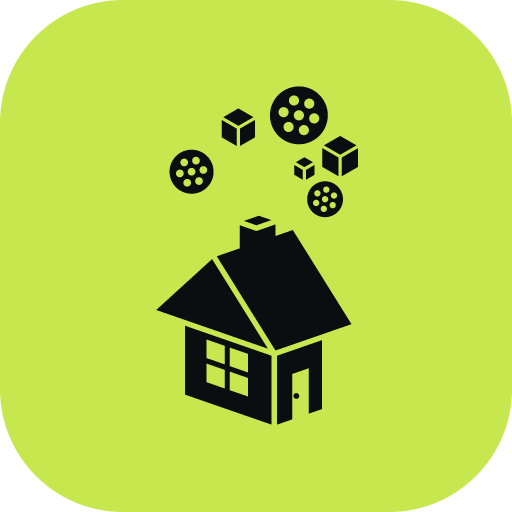
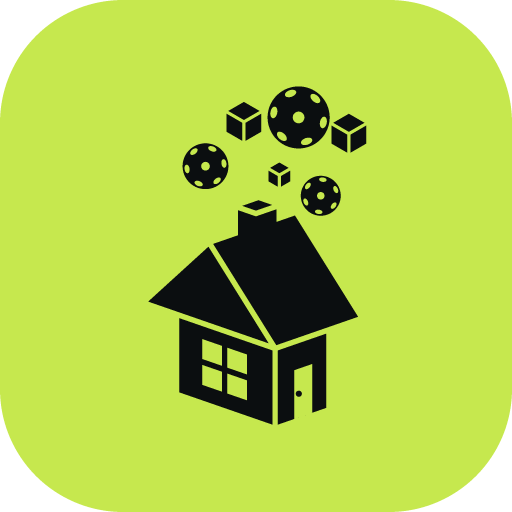
fix(brand): make the balls read as spheres, lower the window, close the gap
The holes were equal circles scattered across a disc, which is why the balls
looked flat. They now sit on a *sphere* and are projected: a round hole seen
off-axis keeps its full width across the line of sight and foreshortens along
it, so the outer holes are ellipses that squash harder toward the rim. That
projection is the entire difference between a ball and a flower.

With the trails gone the objects had drifted away from the chimney and left a
hole in the middle of the mark, so the group is pulled in and spread so no two
overlap. The window sits lower on the wall. Nothing else about the house
changed.

Changed region(s): [[0.2812, 0.1562, 0.7188, 0.8438]]

diff --git a/src/components/brandArt.ts b/src/components/brandArt.ts
@@ -8,100 +8,100 @@ export const BRAND_SEAM_WIDTH = 0.85
 
 /** Filled in ink. Balls carry their holes, so these need fill-rule="evenodd". */
 export const BRAND_INK: string[] = [
-  "M20.9 53.66 L34.86 58.5 L42.31 55.92 L42.31 43.02 L34.86 45.6 L20.9 40.76 Z",
-  "M16.05 40.76 L25.46 32.19 L37.75 27.94 L47.15 43.02 L34.86 47.28 Z",
-  "M29.46 26.74 L32.44 25.71 L35.05 26.61 L35.05 35.86 L32.07 36.89 L29.46 35.99 Z",
-  "M29.24 8.94 L31.85 10.45 L31.85 13.46 L29.24 14.96 L26.64 13.46 L26.64 10.45 Z",
-  "M45.15 13.24 L47.95 14.85 L47.95 18.08 L45.15 19.69 L42.36 18.08 L42.36 14.85 Z",
-  "M39.56 16.57 L41.15 17.49 L41.15 19.31 L39.56 20.23 L37.98 19.31 L37.98 17.49 Z",
-  "M34.18 10.02 a4.52 4.52 0 1 0 9.04 0 a4.52 4.52 0 1 0 -9.04 0 Z M37.91 10.02 a0.79 0.79 0 1 0 1.58 0 a0.79 0.79 0 1 0 -1.58 0 Z M40.3 10.5 a0.79 0.79 0 1 0 1.58 0 a0.79 0.79 0 1 0 -1.58 0 Z M38.69 12.33 a0.79 0.79 0 1 0 1.58 0 a0.79 0.79 0 1 0 -1.58 0 Z M36.3 11.84 a0.79 0.79 0 1 0 1.58 0 a0.79 0.79 0 1 0 -1.58 0 Z M35.52 9.53 a0.79 0.79 0 1 0 1.58 0 a0.79 0.79 0 1 0 -1.58 0 Z M37.14 7.7 a0.79 0.79 0 1 0 1.58 0 a0.79 0.79 0 1 0 -1.58 0 Z M39.53 8.19 a0.79 0.79 0 1 0 1.58 0 a0.79 0.79 0 1 0 -1.58 0 Z",
-  "M18.49 18.83 a3.44 3.44 0 1 0 6.88 0 a3.44 3.44 0 1 0 -6.88 0 Z M21.33 18.83 a0.6 0.6 0 1 0 1.2 0 a0.6 0.6 0 1 0 -1.2 0 Z M22.49 20.29 a0.6 0.6 0 1 0 1.2 0 a0.6 0.6 0 1 0 -1.2 0 Z M20.65 20.56 a0.6 0.6 0 1 0 1.2 0 a0.6 0.6 0 1 0 -1.2 0 Z M19.5 19.1 a0.6 0.6 0 1 0 1.2 0 a0.6 0.6 0 1 0 -1.2 0 Z M20.18 17.38 a0.6 0.6 0 1 0 1.2 0 a0.6 0.6 0 1 0 -1.2 0 Z M22.02 17.1 a0.6 0.6 0 1 0 1.2 0 a0.6 0.6 0 1 0 -1.2 0 Z M23.17 18.56 a0.6 0.6 0 1 0 1.2 0 a0.6 0.6 0 1 0 -1.2 0 Z",
-  "M39.99 23.13 a2.8 2.8 0 1 0 5.6 0 a2.8 2.8 0 1 0 -5.6 0 Z M42.3 23.13 a0.49 0.49 0 1 0 0.98 0 a0.49 0.49 0 1 0 -0.98 0 Z M42.1 24.63 a0.49 0.49 0 1 0 0.98 0 a0.49 0.49 0 1 0 -0.98 0 Z M40.9 23.71 a0.49 0.49 0 1 0 0.98 0 a0.49 0.49 0 1 0 -0.98 0 Z M41.1 22.21 a0.49 0.49 0 1 0 0.98 0 a0.49 0.49 0 1 0 -0.98 0 Z M42.49 21.63 a0.49 0.49 0 1 0 0.98 0 a0.49 0.49 0 1 0 -0.98 0 Z M43.69 22.55 a0.49 0.49 0 1 0 0.98 0 a0.49 0.49 0 1 0 -0.98 0 Z M43.5 24.05 a0.49 0.49 0 1 0 0.98 0 a0.49 0.49 0 1 0 -0.98 0 Z"
+  "M19.99 53.3 L34.99 58.5 L42.99 55.73 L42.99 41.87 L34.99 44.64 L19.99 39.45 Z",
+  "M14.79 39.45 L24.89 30.25 L38.09 25.67 L48.19 41.87 L34.99 46.45 Z",
+  "M29.19 24.39 L32.39 23.28 L35.19 24.25 L35.19 34.18 L31.99 35.29 L29.19 34.32 Z",
+  "M30.11 7.92 L32.81 9.48 L32.81 12.6 L30.11 14.16 L27.41 12.6 L27.41 9.48 Z",
+  "M46.51 9.77 L49.21 11.33 L49.21 14.45 L46.51 16.01 L43.81 14.45 L43.81 11.33 Z",
+  "M35.65 17.39 L37.35 18.37 L37.35 20.34 L35.65 21.32 L33.95 20.34 L33.95 18.37 Z",
+  "M33.81 10.35 a4.85 4.85 0 1 0 9.7 0 a4.85 4.85 0 1 0 -9.7 0 Z M39.58 10.35 L39.53 10.63 L39.4 10.89 L39.2 11.09 L38.94 11.23 L38.66 11.27 L38.37 11.23 L38.12 11.09 L37.91 10.89 L37.78 10.63 L37.74 10.35 L37.78 10.06 L37.91 9.81 L38.12 9.6 L38.37 9.47 L38.66 9.43 L38.94 9.47 L39.2 9.6 L39.4 9.81 L39.53 10.06 Z M43.05 11.24 L42.97 11.51 L42.84 11.75 L42.68 11.93 L42.51 12.02 L42.34 12.04 L42.19 11.96 L42.07 11.8 L41.99 11.58 L41.97 11.31 L42 11.03 L42.08 10.75 L42.21 10.52 L42.36 10.34 L42.53 10.24 L42.71 10.23 L42.86 10.31 L42.98 10.47 L43.06 10.69 L43.08 10.96 Z M40.08 14.6 L39.8 14.66 L39.54 14.67 L39.3 14.63 L39.13 14.53 L39.04 14.38 L39.03 14.21 L39.1 14.03 L39.26 13.85 L39.48 13.7 L39.74 13.58 L40.02 13.52 L40.29 13.51 L40.52 13.55 L40.69 13.65 L40.78 13.8 L40.79 13.97 L40.72 14.15 L40.56 14.33 L40.34 14.48 Z M35.69 13.71 L35.49 13.5 L35.35 13.27 L35.28 13.05 L35.28 12.85 L35.35 12.7 L35.5 12.6 L35.69 12.58 L35.93 12.62 L36.17 12.74 L36.4 12.9 L36.6 13.11 L36.74 13.34 L36.81 13.56 L36.81 13.76 L36.74 13.92 L36.59 14.01 L36.4 14.04 L36.16 13.99 L35.92 13.88 Z M34.27 9.46 L34.35 9.19 L34.47 8.95 L34.63 8.77 L34.8 8.67 L34.97 8.66 L35.13 8.74 L35.25 8.9 L35.32 9.12 L35.35 9.39 L35.32 9.67 L35.23 9.95 L35.11 10.18 L34.95 10.36 L34.78 10.46 L34.61 10.47 L34.45 10.39 L34.33 10.23 L34.26 10.01 L34.23 9.74 Z M37.23 6.1 L37.51 6.04 L37.78 6.03 L38.01 6.07 L38.18 6.17 L38.28 6.32 L38.29 6.49 L38.21 6.67 L38.05 6.85 L37.83 7 L37.57 7.12 L37.29 7.18 L37.03 7.19 L36.8 7.15 L36.62 7.05 L36.53 6.9 L36.52 6.73 L36.6 6.55 L36.75 6.37 L36.97 6.22 Z M41.62 6.99 L41.82 7.2 L41.96 7.43 L42.04 7.65 L42.03 7.85 L41.96 8 L41.82 8.1 L41.62 8.12 L41.39 8.08 L41.14 7.96 L40.91 7.79 L40.72 7.59 L40.58 7.36 L40.5 7.14 L40.5 6.94 L40.58 6.78 L40.72 6.69 L40.92 6.66 L41.15 6.71 L41.39 6.82 Z",
+  "M20.53 17.97 a3.58 3.58 0 1 0 7.16 0 a3.58 3.58 0 1 0 -7.16 0 Z M24.79 17.97 L24.75 18.18 L24.66 18.37 L24.51 18.52 L24.32 18.62 L24.11 18.65 L23.9 18.62 L23.71 18.52 L23.56 18.37 L23.46 18.18 L23.43 17.97 L23.46 17.76 L23.56 17.57 L23.71 17.42 L23.9 17.32 L24.11 17.29 L24.32 17.32 L24.51 17.42 L24.66 17.57 L24.75 17.76 Z M26.16 20.56 L25.99 20.68 L25.8 20.75 L25.63 20.77 L25.49 20.75 L25.39 20.67 L25.34 20.56 L25.34 20.41 L25.41 20.25 L25.52 20.09 L25.67 19.94 L25.85 19.83 L26.03 19.75 L26.2 19.73 L26.35 19.75 L26.45 19.83 L26.5 19.94 L26.49 20.09 L26.43 20.25 L26.32 20.41 Z M22.89 21.05 L22.7 20.95 L22.55 20.83 L22.44 20.69 L22.39 20.55 L22.41 20.43 L22.48 20.33 L22.61 20.26 L22.78 20.23 L22.98 20.25 L23.18 20.31 L23.37 20.41 L23.53 20.53 L23.64 20.66 L23.68 20.8 L23.67 20.93 L23.59 21.03 L23.46 21.1 L23.29 21.12 L23.1 21.11 Z M20.84 18.46 L20.83 18.24 L20.85 18.05 L20.92 17.89 L21.01 17.78 L21.13 17.72 L21.25 17.74 L21.38 17.82 L21.49 17.95 L21.57 18.13 L21.62 18.34 L21.63 18.55 L21.6 18.75 L21.54 18.91 L21.44 19.02 L21.33 19.07 L21.2 19.05 L21.08 18.98 L20.97 18.84 L20.89 18.66 Z M22.05 15.38 L22.23 15.26 L22.41 15.19 L22.58 15.17 L22.73 15.19 L22.83 15.27 L22.88 15.38 L22.87 15.53 L22.81 15.69 L22.7 15.85 L22.54 16 L22.37 16.11 L22.18 16.19 L22.01 16.21 L21.87 16.19 L21.77 16.11 L21.72 16 L21.72 15.85 L21.79 15.69 L21.9 15.53 Z M25.32 14.89 L25.51 14.99 L25.67 15.11 L25.78 15.25 L25.82 15.39 L25.81 15.51 L25.73 15.61 L25.6 15.68 L25.43 15.71 L25.24 15.69 L25.03 15.63 L24.84 15.54 L24.69 15.41 L24.58 15.28 L24.53 15.14 L24.55 15.01 L24.62 14.91 L24.75 14.84 L24.92 14.82 L25.12 14.84 Z M27.38 17.49 L27.39 17.7 L27.36 17.89 L27.3 18.05 L27.2 18.17 L27.09 18.22 L26.96 18.2 L26.84 18.12 L26.73 17.99 L26.65 17.81 L26.6 17.6 L26.59 17.39 L26.61 17.19 L26.68 17.03 L26.77 16.92 L26.89 16.87 L27.01 16.89 L27.14 16.96 L27.25 17.1 L27.33 17.28 Z",
+  "M39 22.59 a3.12 3.12 0 1 0 6.24 0 a3.12 3.12 0 1 0 -6.24 0 Z M42.71 22.59 L42.68 22.77 L42.6 22.94 L42.47 23.07 L42.3 23.15 L42.12 23.18 L41.94 23.15 L41.77 23.07 L41.64 22.94 L41.56 22.77 L41.53 22.59 L41.56 22.41 L41.64 22.24 L41.77 22.11 L41.94 22.03 L42.12 22 L42.3 22.03 L42.47 22.11 L42.6 22.24 L42.68 22.41 Z M41.75 25.45 L41.57 25.4 L41.41 25.34 L41.29 25.24 L41.22 25.14 L41.21 25.03 L41.25 24.93 L41.34 24.84 L41.48 24.78 L41.65 24.75 L41.84 24.76 L42.02 24.8 L42.18 24.87 L42.3 24.96 L42.37 25.07 L42.38 25.18 L42.34 25.28 L42.24 25.37 L42.1 25.42 L41.93 25.45 Z M39.46 23.7 L39.41 23.52 L39.39 23.35 L39.41 23.2 L39.46 23.08 L39.55 23.02 L39.66 23 L39.78 23.04 L39.9 23.13 L40.01 23.27 L40.1 23.43 L40.15 23.61 L40.17 23.78 L40.15 23.93 L40.09 24.04 L40.01 24.11 L39.9 24.12 L39.78 24.08 L39.66 23.99 L39.55 23.86 Z M39.83 20.84 L39.96 20.7 L40.1 20.6 L40.24 20.54 L40.36 20.54 L40.47 20.58 L40.53 20.67 L40.56 20.79 L40.54 20.94 L40.48 21.1 L40.38 21.26 L40.26 21.39 L40.12 21.49 L39.98 21.55 L39.85 21.56 L39.75 21.52 L39.68 21.43 L39.65 21.31 L39.67 21.16 L39.73 20.99 Z M42.49 19.73 L42.67 19.77 L42.83 19.84 L42.95 19.93 L43.02 20.04 L43.03 20.15 L42.99 20.25 L42.9 20.34 L42.76 20.4 L42.59 20.42 L42.4 20.42 L42.22 20.38 L42.07 20.31 L41.95 20.21 L41.87 20.11 L41.86 20 L41.9 19.9 L42 19.81 L42.14 19.75 L42.31 19.73 Z M44.78 21.48 L44.83 21.66 L44.85 21.83 L44.83 21.98 L44.78 22.09 L44.69 22.16 L44.58 22.18 L44.46 22.13 L44.34 22.04 L44.23 21.91 L44.14 21.75 L44.09 21.57 L44.07 21.4 L44.09 21.25 L44.15 21.14 L44.23 21.07 L44.34 21.05 L44.46 21.09 L44.59 21.19 L44.69 21.32 Z M44.41 24.34 L44.28 24.47 L44.14 24.57 L44 24.63 L43.88 24.64 L43.78 24.6 L43.71 24.51 L43.68 24.39 L43.7 24.24 L43.76 24.08 L43.86 23.92 L43.99 23.78 L44.13 23.68 L44.27 23.63 L44.39 23.62 L44.49 23.66 L44.56 23.75 L44.59 23.87 L44.57 24.02 L44.51 24.18 Z"
 ]
 
 /** Filled in the tile colour, on top: the window panes and the door. */
 export const BRAND_CUTS: string[] = [
-  "M30.76 50.2 L27.88 49.2 L27.88 46.3 L30.76 47.3 Z",
-  "M27.13 48.94 L24.25 47.94 L24.25 45.04 L27.13 46.04 Z",
-  "M30.76 53.96 L27.88 52.96 L27.88 50.06 L30.76 51.06 Z",
-  "M27.13 52.71 L24.25 51.71 L24.25 48.8 L27.13 49.8 Z",
-  "M37.65 57.53 L40.26 56.63 L40.26 49.53 L37.65 50.44 Z"
+  "M30.59 50.51 L27.49 49.44 L27.49 46.32 L30.59 47.39 Z",
+  "M26.69 49.16 L23.59 48.09 L23.59 44.97 L26.69 46.04 Z",
+  "M30.59 54.55 L27.49 53.48 L27.49 50.36 L30.59 51.43 Z",
+  "M26.69 53.2 L23.59 52.13 L23.59 49.01 L26.69 50.08 Z",
+  "M37.99 57.46 L40.79 56.49 L40.79 48.87 L37.99 49.84 Z"
 ]
 
 /** Stroked in the tile colour: the seams where one face meets another. */
 export const BRAND_SEAMS: { d: string; width: number }[] = [
   {
-    "d": "M16.05 40.76 L34.86 47.28 L47.15 43.02",
+    "d": "M14.79 39.45 L34.99 46.45 L48.19 41.87",
     "width": 0.85
   },
   {
-    "d": "M34.86 47.28 L25.46 32.19",
+    "d": "M34.99 46.45 L24.89 30.25",
     "width": 0.85
   },
   {
-    "d": "M34.86 58.5 L34.86 47.28",
+    "d": "M34.99 58.5 L34.99 46.45",
     "width": 0.85
   },
   {
-    "d": "M32.07 27.65 L35.05 26.61",
+    "d": "M31.99 25.36 L35.19 24.25",
     "width": 0.85
   },
   {
-    "d": "M32.07 27.65 L29.46 26.74",
+    "d": "M31.99 25.36 L29.19 24.39",
     "width": 0.85
   },
   {
-    "d": "M29.24 11.95 L26.64 10.45",
+    "d": "M30.11 11.04 L27.41 9.48",
     "width": 0.5
   },
   {
-    "d": "M29.24 11.95 L31.85 10.45",
+    "d": "M30.11 11.04 L32.81 9.48",
     "width": 0.5
   },
   {
-    "d": "M29.24 11.95 L29.24 14.96",
+    "d": "M30.11 11.04 L30.11 14.16",
     "width": 0.5
   },
   {
-    "d": "M45.15 16.47 L42.36 14.85",
+    "d": "M46.51 12.89 L43.81 11.33",
     "width": 0.5
   },
   {
-    "d": "M45.15 16.47 L47.95 14.85",
+    "d": "M46.51 12.89 L49.21 11.33",
     "width": 0.5
   },
   {
-    "d": "M45.15 16.47 L45.15 19.69",
+    "d": "M46.51 12.89 L46.51 16.01",
     "width": 0.5
   },
   {
-    "d": "M39.56 18.4 L37.98 17.49",
+    "d": "M35.65 19.36 L33.95 18.37",
     "width": 0.5
   },
   {
-    "d": "M39.56 18.4 L41.15 17.49",
+    "d": "M35.65 19.36 L37.35 18.37",
     "width": 0.5
   },
   {
-    "d": "M39.56 18.4 L39.56 20.23",
+    "d": "M35.65 19.36 L35.65 21.32",
     "width": 0.5
   }
 ]
 
 /** Back in ink, over the cuts: the door handle. */
 export const BRAND_DOTS: string[] = [
-  "M37.85 53.87 a0.45 0.45 0 1 0 0.9 0 a0.45 0.45 0 1 0 -0.9 0 Z"
+  "M38.21 53.52 a0.48 0.48 0 1 0 0.96 0 a0.48 0.48 0 1 0 -0.96 0 Z"
 ]
 
 /** One flat silhouette, for anywhere the mark must survive as a single shape. */
 export const BRAND_SOLID: string[] = [
-  "M20.9 53.66 L34.86 58.5 L42.31 55.92 L42.31 43.02 L34.86 45.6 L20.9 40.76 Z",
-  "M16.05 40.76 L25.46 32.19 L37.75 27.94 L47.15 43.02 L34.86 47.28 Z",
-  "M29.46 26.74 L32.44 25.71 L35.05 26.61 L35.05 35.86 L32.07 36.89 L29.46 35.99 Z",
-  "M29.24 8.94 L31.85 10.45 L31.85 13.46 L29.24 14.96 L26.64 13.46 L26.64 10.45 Z",
-  "M45.15 13.24 L47.95 14.85 L47.95 18.08 L45.15 19.69 L42.36 18.08 L42.36 14.85 Z",
-  "M39.56 16.57 L41.15 17.49 L41.15 19.31 L39.56 20.23 L37.98 19.31 L37.98 17.49 Z",
-  "M43.22 10.02 L43.16 10.72 L43 11.41 L42.73 12.06 L42.36 12.67 L41.9 13.21 L41.36 13.67 L40.75 14.04 L40.1 14.31 L39.41 14.47 L38.7 14.53 L38 14.47 L37.31 14.31 L36.65 14.04 L36.05 13.67 L35.51 13.21 L35.05 12.67 L34.68 12.06 L34.41 11.41 L34.24 10.72 L34.19 10.02 L34.24 9.31 L34.41 8.62 L34.68 7.97 L35.05 7.36 L35.51 6.82 L36.05 6.36 L36.65 5.99 L37.31 5.72 L38 5.56 L38.7 5.5 L39.41 5.56 L40.1 5.72 L40.75 5.99 L41.36 6.36 L41.9 6.82 L42.36 7.36 L42.73 7.97 L43 8.62 L43.16 9.31 Z",
-  "M25.37 18.83 L25.33 19.37 L25.2 19.89 L25 20.39 L24.72 20.85 L24.37 21.26 L23.95 21.61 L23.49 21.9 L23 22.1 L22.47 22.23 L21.93 22.27 L21.39 22.23 L20.87 22.1 L20.37 21.9 L19.91 21.61 L19.5 21.26 L19.15 20.85 L18.87 20.39 L18.66 19.89 L18.53 19.37 L18.49 18.83 L18.53 18.29 L18.66 17.77 L18.87 17.27 L19.15 16.81 L19.5 16.4 L19.91 16.05 L20.37 15.77 L20.87 15.56 L21.39 15.43 L21.93 15.39 L22.47 15.43 L23 15.56 L23.49 15.77 L23.95 16.05 L24.37 16.4 L24.72 16.81 L25 17.27 L25.2 17.77 L25.33 18.29 Z",
-  "M45.58 23.13 L45.55 23.57 L45.45 23.99 L45.28 24.4 L45.05 24.77 L44.76 25.11 L44.43 25.39 L44.06 25.62 L43.65 25.79 L43.23 25.89 L42.79 25.93 L42.35 25.89 L41.92 25.79 L41.52 25.62 L41.15 25.39 L40.81 25.11 L40.53 24.77 L40.3 24.4 L40.13 23.99 L40.03 23.57 L39.99 23.13 L40.03 22.69 L40.13 22.27 L40.3 21.86 L40.53 21.49 L40.81 21.15 L41.15 20.87 L41.52 20.64 L41.92 20.47 L42.35 20.37 L42.79 20.34 L43.23 20.37 L43.65 20.47 L44.06 20.64 L44.43 20.87 L44.76 21.15 L45.05 21.49 L45.28 21.86 L45.45 22.27 L45.55 22.69 Z"
+  "M19.99 53.3 L34.99 58.5 L42.99 55.73 L42.99 41.87 L34.99 44.64 L19.99 39.45 Z",
+  "M14.79 39.45 L24.89 30.25 L38.09 25.67 L48.19 41.87 L34.99 46.45 Z",
+  "M29.19 24.39 L32.39 23.28 L35.19 24.25 L35.19 34.18 L31.99 35.29 L29.19 34.32 Z",
+  "M30.11 7.92 L32.81 9.48 L32.81 12.6 L30.11 14.16 L27.41 12.6 L27.41 9.48 Z",
+  "M46.51 9.77 L49.21 11.33 L49.21 14.45 L46.51 16.01 L43.81 14.45 L43.81 11.33 Z",
+  "M35.65 17.39 L37.35 18.37 L37.35 20.34 L35.65 21.32 L33.95 20.34 L33.95 18.37 Z",
+  "M43.51 10.35 L43.45 11.11 L43.27 11.85 L42.98 12.55 L42.58 13.2 L42.09 13.78 L41.51 14.27 L40.86 14.67 L40.16 14.96 L39.42 15.14 L38.66 15.2 L37.9 15.14 L37.16 14.96 L36.46 14.67 L35.81 14.27 L35.23 13.78 L34.73 13.2 L34.34 12.55 L34.04 11.85 L33.87 11.11 L33.81 10.35 L33.87 9.59 L34.04 8.85 L34.34 8.15 L34.73 7.5 L35.23 6.92 L35.81 6.43 L36.46 6.03 L37.16 5.74 L37.9 5.56 L38.66 5.5 L39.42 5.56 L40.16 5.74 L40.86 6.03 L41.51 6.43 L42.09 6.92 L42.58 7.5 L42.98 8.15 L43.27 8.85 L43.45 9.59 Z",
+  "M27.69 17.97 L27.64 18.53 L27.51 19.08 L27.3 19.6 L27 20.07 L26.64 20.5 L26.21 20.87 L25.73 21.16 L25.21 21.37 L24.67 21.51 L24.11 21.55 L23.55 21.51 L23 21.37 L22.48 21.16 L22 20.87 L21.58 20.5 L21.21 20.07 L20.92 19.6 L20.7 19.08 L20.57 18.53 L20.53 17.97 L20.57 17.41 L20.7 16.86 L20.92 16.35 L21.21 15.87 L21.58 15.44 L22 15.07 L22.48 14.78 L23 14.57 L23.55 14.43 L24.11 14.39 L24.67 14.43 L25.21 14.57 L25.73 14.78 L26.21 15.07 L26.64 15.44 L27 15.87 L27.3 16.35 L27.51 16.86 L27.64 17.41 Z",
+  "M45.24 22.59 L45.2 23.08 L45.09 23.55 L44.9 24 L44.64 24.42 L44.33 24.79 L43.95 25.11 L43.54 25.37 L43.08 25.55 L42.61 25.67 L42.12 25.71 L41.63 25.67 L41.16 25.55 L40.71 25.37 L40.29 25.11 L39.92 24.79 L39.6 24.42 L39.34 24 L39.16 23.55 L39.04 23.08 L39 22.59 L39.04 22.1 L39.16 21.63 L39.34 21.17 L39.6 20.76 L39.92 20.38 L40.29 20.07 L40.71 19.81 L41.16 19.62 L41.63 19.51 L42.12 19.47 L42.61 19.51 L43.08 19.62 L43.54 19.81 L43.95 20.07 L44.33 20.38 L44.64 20.76 L44.9 21.17 L45.09 21.63 L45.2 22.1 Z"
 ]
